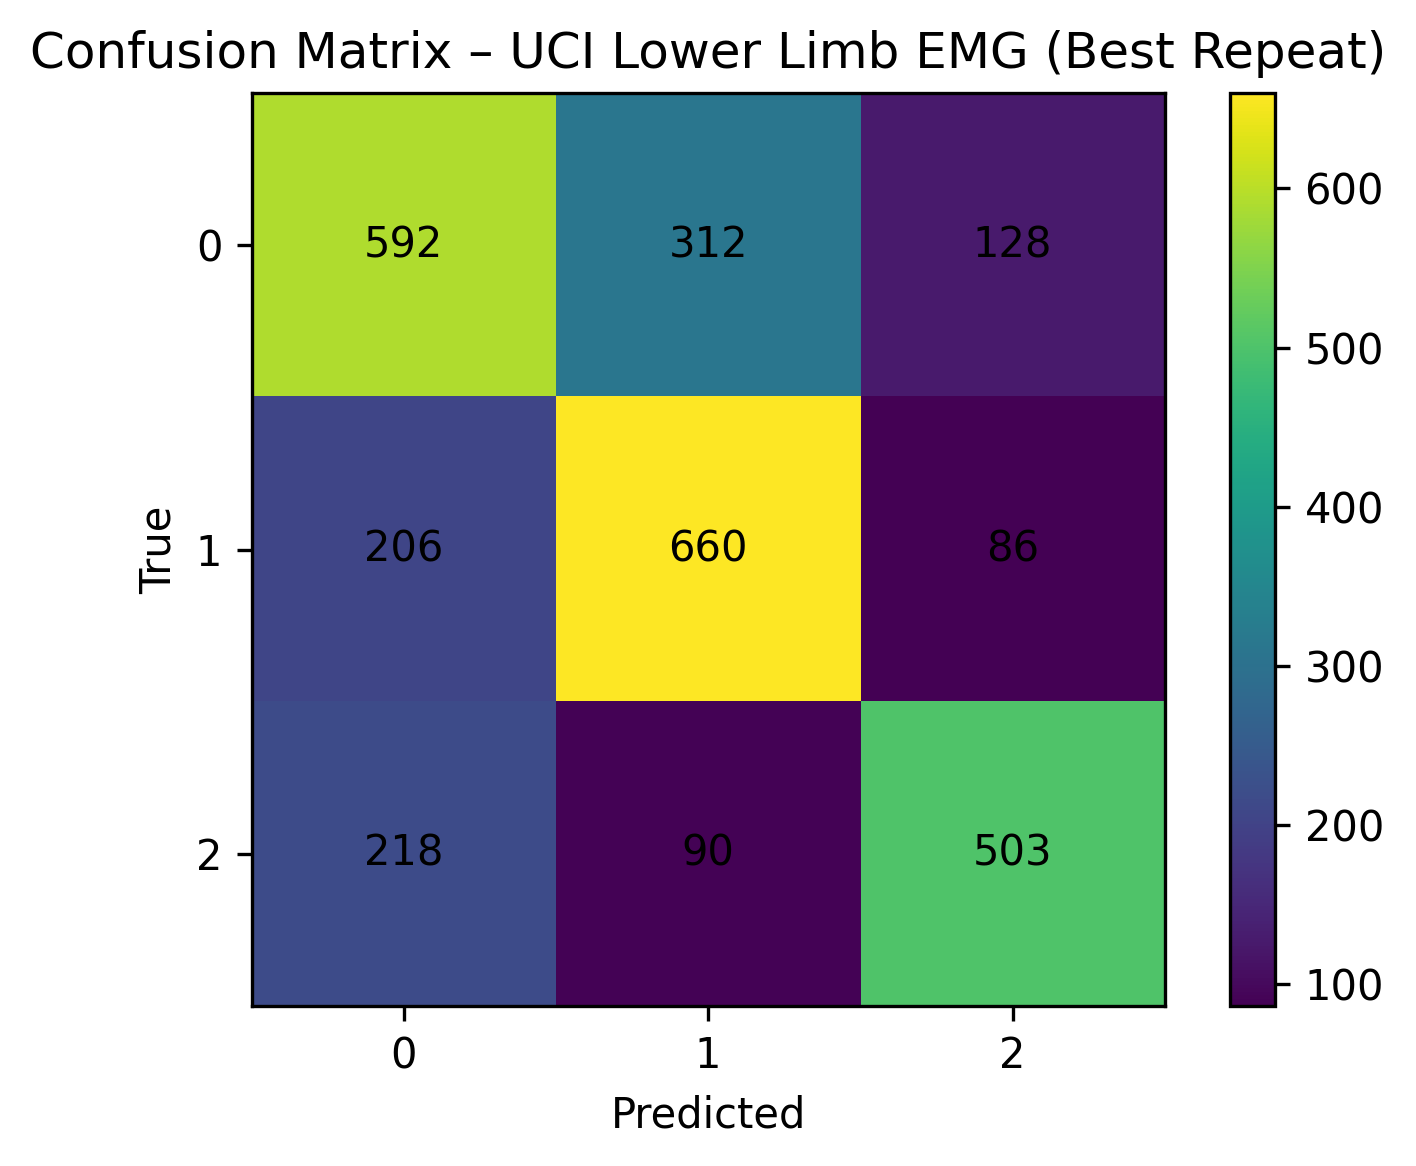
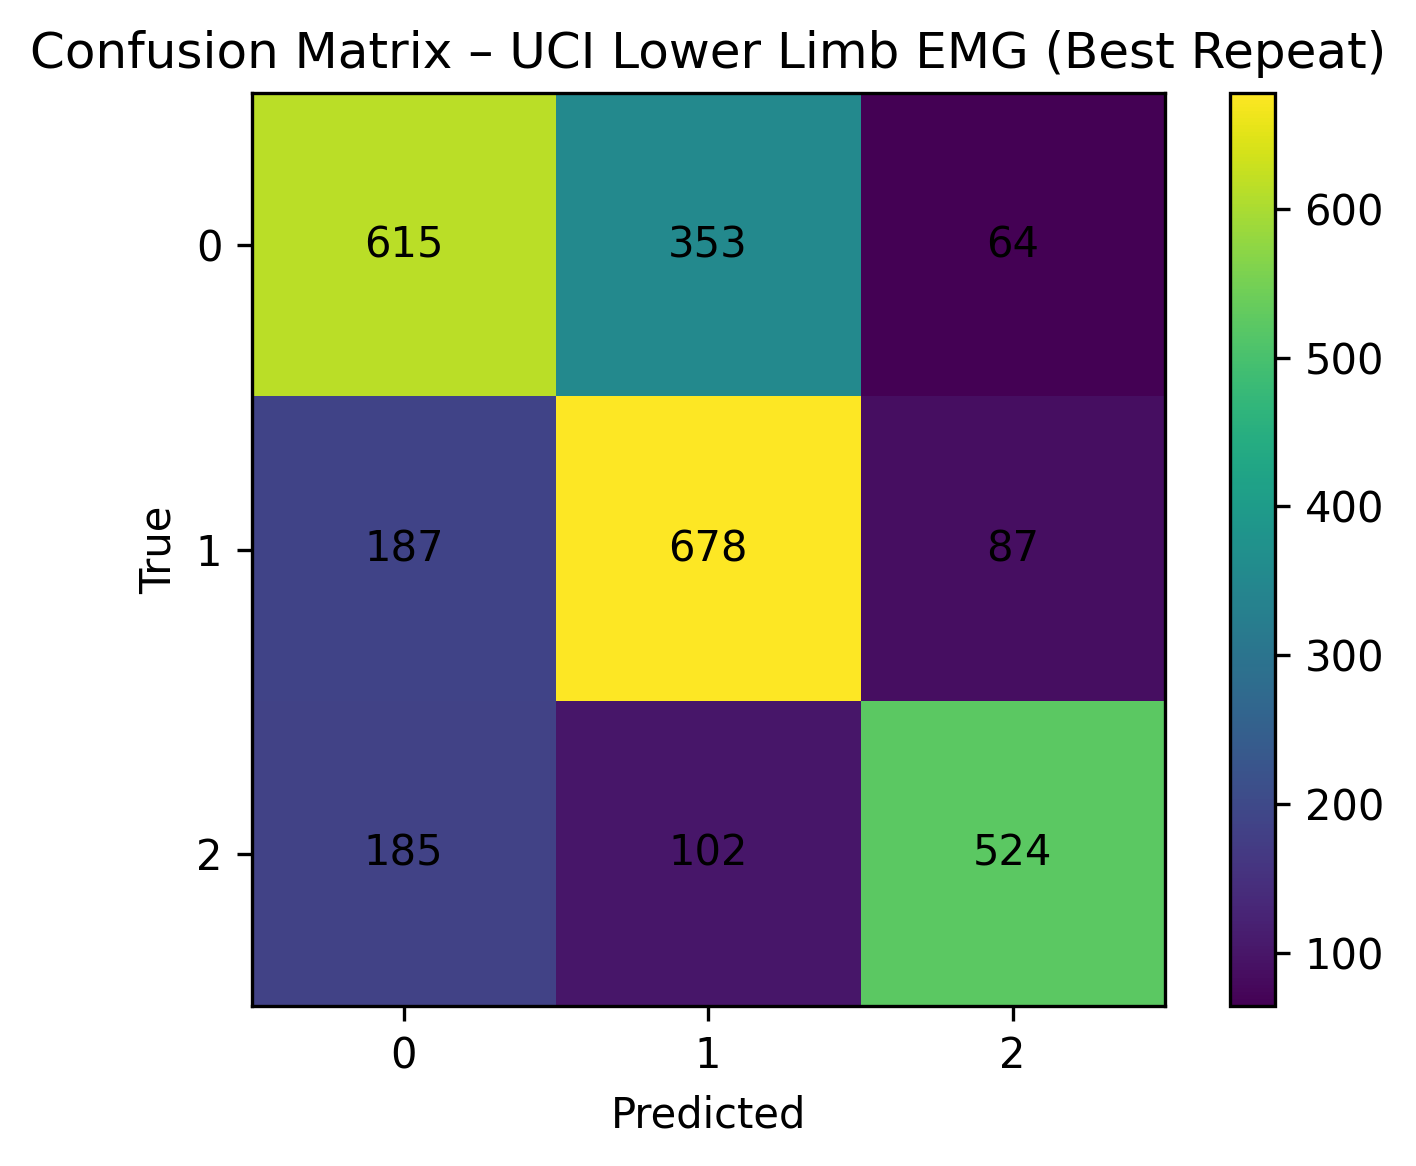
improve no 2

diff --git a/src/models.py b/src/models.py
@@ -3,6 +3,8 @@ from sklearn.svm import SVC
 from sklearn.ensemble import RandomForestClassifier
 from sklearn.metrics import accuracy_score, f1_score
 from sklearn.utils.class_weight import compute_class_weight
+from sklearn.preprocessing import StandardScaler
+from sklearn.pipeline import make_pipeline
 
 import torch
 import torch.nn as nn
@@ -30,7 +32,12 @@ class TorchMLPNet(nn.Module):
 
 class TorchMLPClassifier:
     """
-    scikit-like wrapper untuk PyTorch MLP agar tetap kompatibel dengan evaluate_models().
+    Scikit-like wrapper untuk PyTorch MLP agar tetap kompatibel dengan evaluate_models().
+
+    Improvement:
+    - menambahkan StandardScaler internal
+    - scaler di-fit hanya pada train set
+    - X_val dan X_test ditransform menggunakan scaler yang sama
     """
     def __init__(
         self,
@@ -60,6 +67,9 @@ class TorchMLPClassifier:
         self.random_state = random_state
         self.val_fraction = val_fraction
 
+        # scaler khusus untuk MLP
+        self.scaler = StandardScaler()
+
         torch.manual_seed(random_state)
         np.random.seed(random_state)
         if torch.cuda.is_available():
@@ -75,6 +85,9 @@ class TorchMLPClassifier:
     def fit(self, X, y, sample_weight=None):
         X = np.asarray(X, dtype=np.float32)
         y = np.asarray(y, dtype=np.int64)
+
+        # standardization fit hanya pada data train fold ini
+        X = self.scaler.fit_transform(X).astype(np.float32)
 
         n = len(X)
         idx = np.arange(n)
@@ -165,6 +178,7 @@ class TorchMLPClassifier:
 
     def predict(self, X):
         X = np.asarray(X, dtype=np.float32)
+        X = self.scaler.transform(X).astype(np.float32)
         self.model.eval()
 
         with torch.no_grad():
@@ -180,11 +194,14 @@ def build_models(names, input_dim=None, n_classes=None, device="cpu", random_sta
     mlp_params = mlp_params or {}
 
     if "SVM" in names:
-        models["SVM"] = SVC(
-            kernel="rbf",
-            C=1.0,
-            gamma="scale",
-            class_weight="balanced"
+        models["SVM"] = make_pipeline(
+            StandardScaler(),
+            SVC(
+                kernel="rbf",
+                C=1.0,
+                gamma="scale",
+                class_weight="balanced"
+            )
         )
 
     if "RF" in names:
@@ -214,8 +231,9 @@ def build_models(names, input_dim=None, n_classes=None, device="cpu", random_sta
 def evaluate_models(models, X_train, y_train, X_test, y_test, device="cpu"):
     """
     Evaluasi semua model:
-    - SVM/RF: CPU (scikit-learn)
-    - MLP: GPU bila device='cuda'
+    - SVM: StandardScaler + SVC
+    - RF : tanpa scaling
+    - MLP: scaler internal + PyTorch
     """
     results = {}
     best_name, best_f1, best_pred = None, -1.0, None
